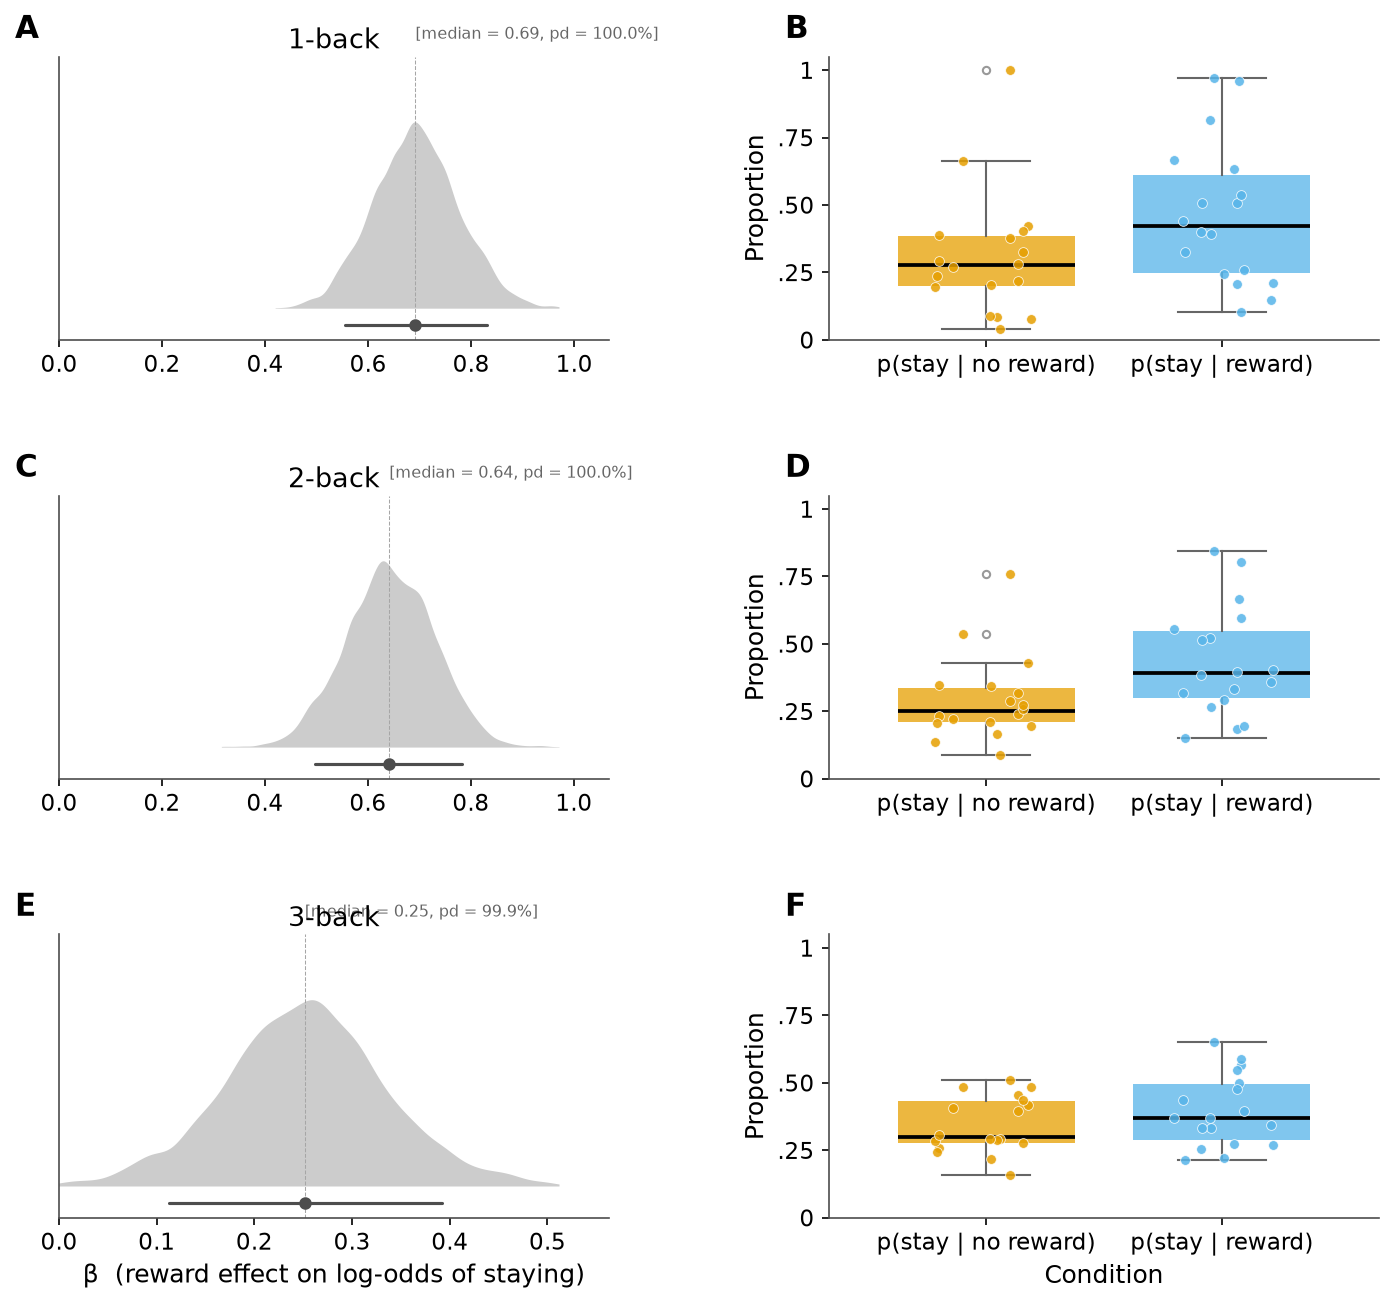
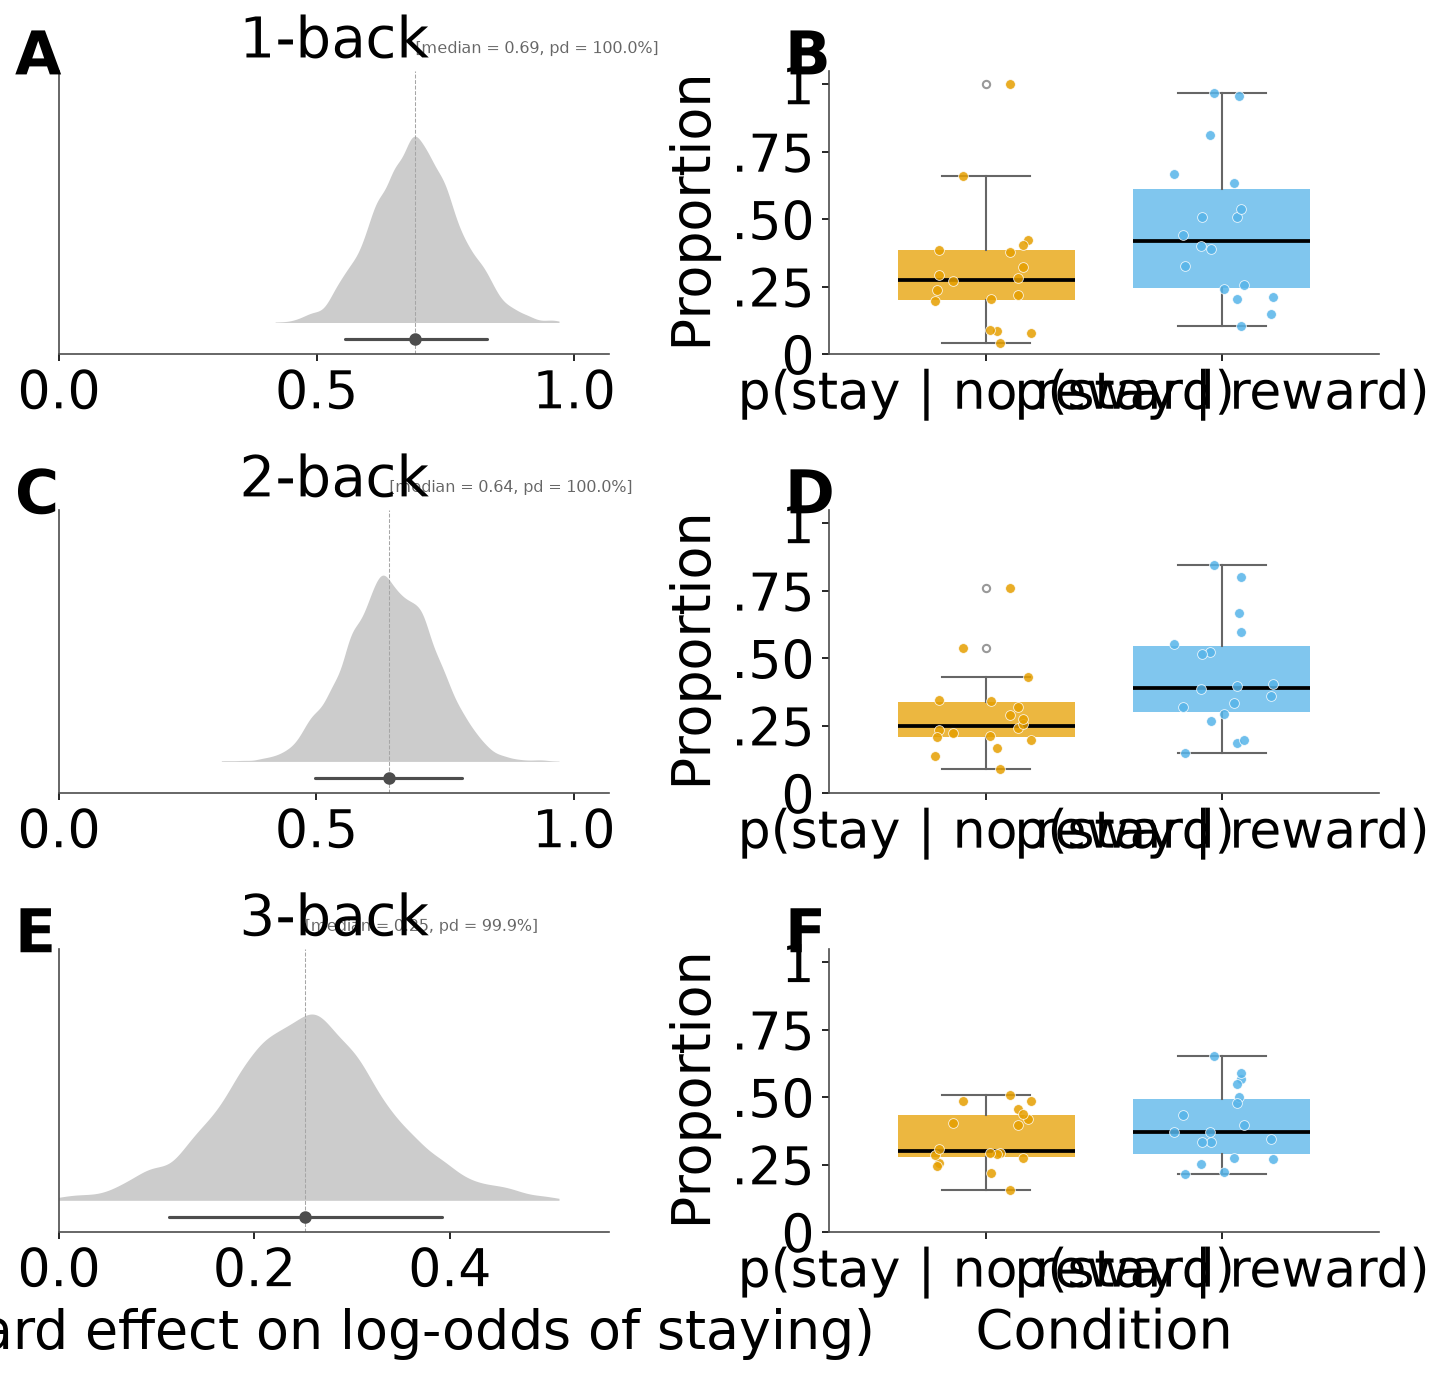
Increase base font size to 27
Claude-Session: https://claude.ai/code/session_012x9xnxMCjZRKf3pY757v2o

diff --git a/analysis/wsls_pilot/run_wsls_pilot.py b/analysis/wsls_pilot/run_wsls_pilot.py
@@ -31,7 +31,7 @@ GREY65  = "#a6a6a6"   # median line
 GREY80  = "#cccccc"   # slab fill (single posterior)
 CI80_LW = 3.0
 CI90_LW = 1.5
-BASE_FS = 13
+BASE_FS = 27
 
 # Okabe-Ito — p(stay|reward) = sky blue, p(switch|reward) = orange
 OI_BLUE   = "#56B4E9"
